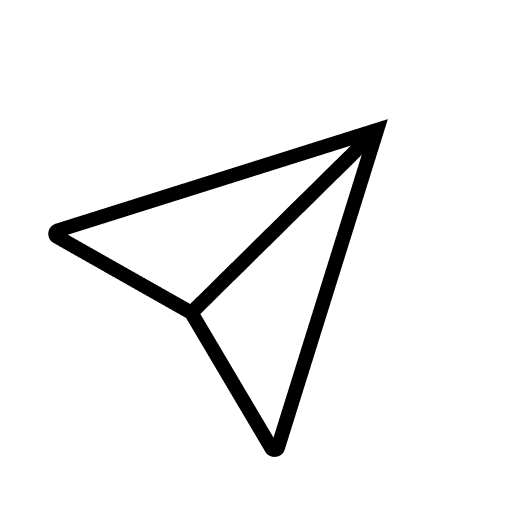
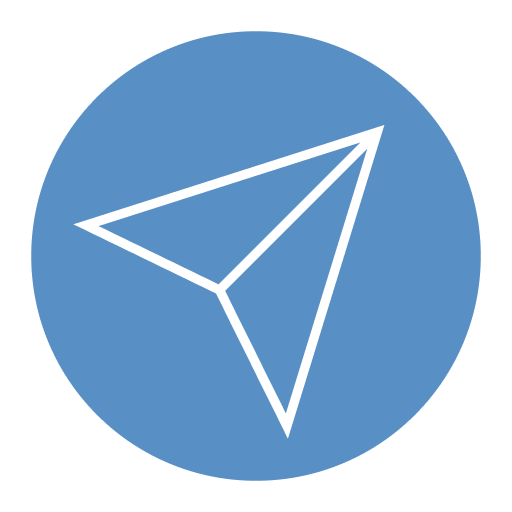
initial

diff --git a/nuxt.config.ts b/nuxt.config.ts
@@ -3,7 +3,11 @@ export default defineNuxtConfig({
   app: {
     head: {
       link: [
-        {rel: 'manifest', href: '/manifest.json'}
+        {rel: 'manifest', href: '/manifest.json'},
+        {rel: 'icon', href: '/favicon.png'},
+      ],
+      meta: [
+        {name: 'viewport', content: 'width=device-width, user-scalable=no'},
       ],
     }
   }
